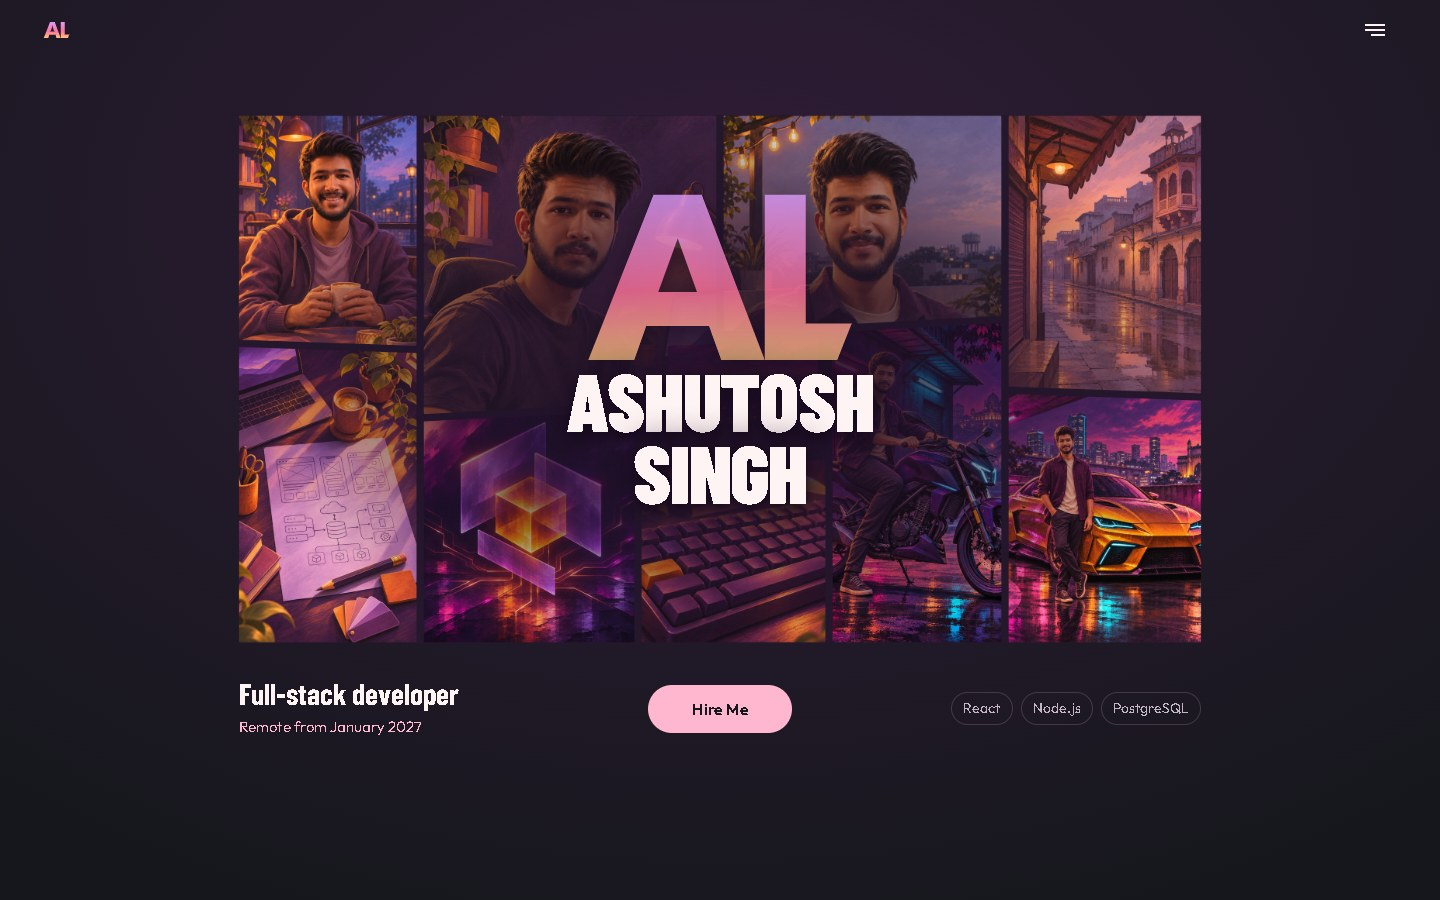
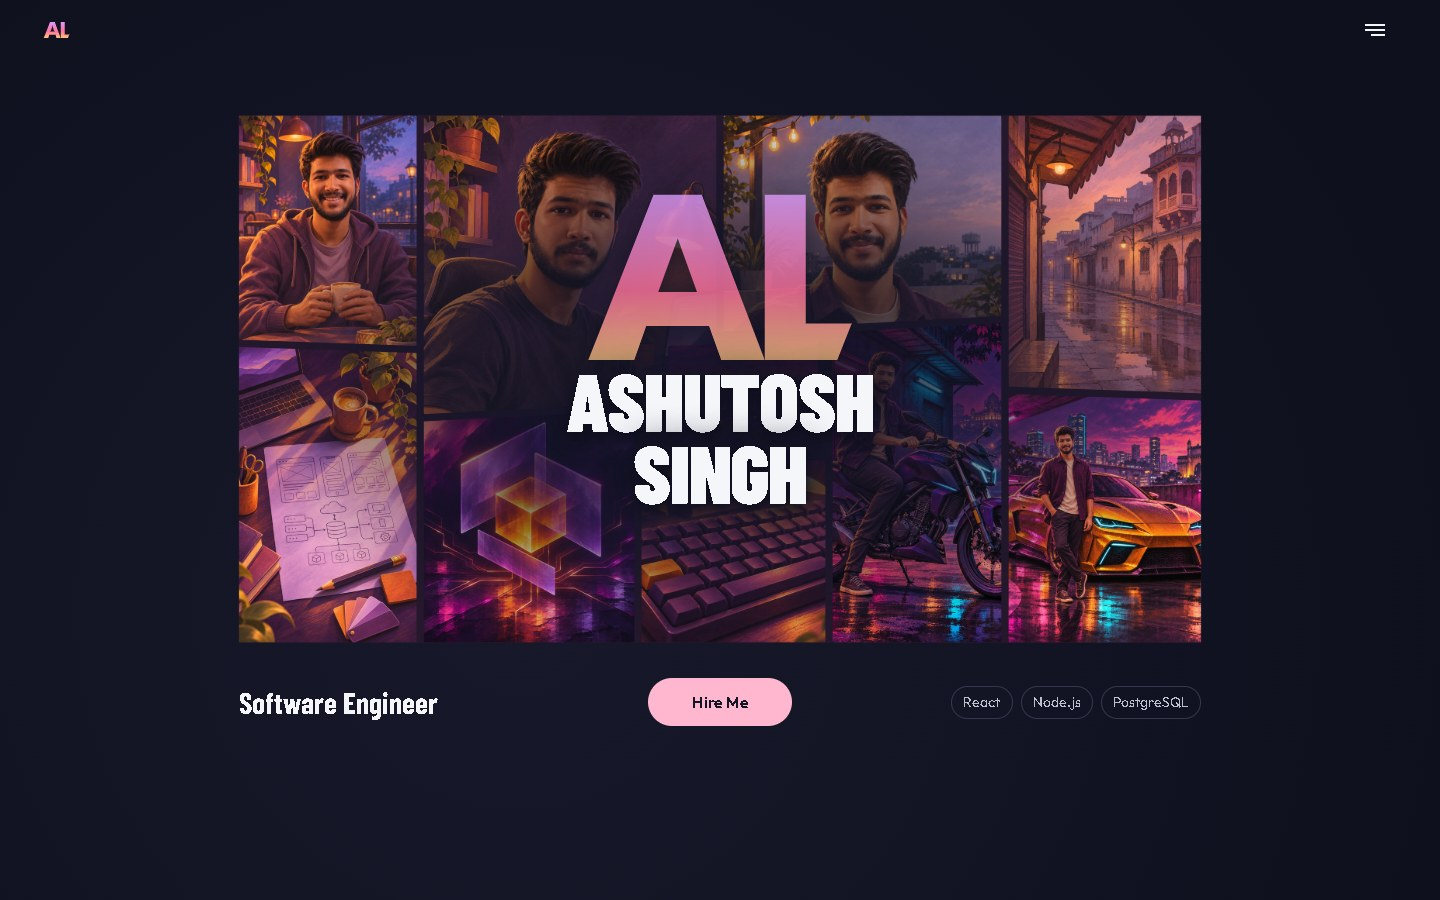
Update portfolio homepage tagline

diff --git a/src/App.jsx b/src/App.jsx
@@ -95,10 +95,7 @@ function Hero({ showIntro }) {
       </div>
 
       <div className="hero-details">
-        <div>
-          <p className="hero-tagline">{hero.tagline}</p>
-          <p className="hero-availability">{hero.availability}</p>
-        </div>
+        <p className="hero-tagline">{hero.tagline}</p>
         <a className="hire-link" href={LINKS.hire}>
           {hero.hire}
         </a>

diff --git a/src/content.js b/src/content.js
@@ -34,8 +34,7 @@ export const navbar = {
 
 export const hero = {
   title: 'Ashutosh Singh',
-  tagline: 'Full-stack developer',
-  availability: 'Remote from January 2027',
+  tagline: 'Software Engineer',
   hire: 'Hire Me',
   stackLabel: 'Tech stack',
   stack: ['React', 'Node.js', 'PostgreSQL'],

diff --git a/src/index.css b/src/index.css
@@ -689,12 +689,6 @@ html:has(.site-menu[open]) {
   font: 700 clamp(1.375rem, 2.1vw, 2rem) / 1.05 var(--font-display);
 }
 
-.hero-availability {
-  margin-top: 0.375rem;
-  color: var(--accent);
-  font-size: 0.9375rem;
-}
-
 .hero-stack {
   display: flex;
   flex-wrap: wrap;

diff --git a/AGENT.md b/AGENT.md
@@ -122,7 +122,7 @@ This file is the only context that carries between prompts and sessions. Keep it
 
 **Contact:** Hire Me and Start a Project lead to the footer. The form submits to FormSubmit's AJAX endpoint and displays its result in place. Book a Call embeds the Cal.com profile and its event calendars in the footer.
 
-**Hero:** The navbar AL mark renders at 1.95rem wide.
+**Hero:** The homepage tagline reads “Software Engineer.” The navbar AL mark renders at 1.95rem wide.
 
 **Next:** Replace the existing public resume when a newer PDF is supplied.
 

diff --git a/README.md b/README.md
@@ -20,7 +20,7 @@ The city scene pulls back from a motorcycle on wet streets to reveal Rajwada Pal
 
 Portrait artwork reframes the opening shot, and project cards can be swiped on smaller screens.
 
-<img src="docs/screenshots/hero-mobile.jpg" alt="Mobile homepage with portrait collage, availability, and Hire Me button" width="320">
+<img src="docs/screenshots/hero-mobile.jpg" alt="Mobile homepage with portrait collage and Hire Me button" width="320">
 
 ## Run Locally
 

diff --git a/CONTENT.md b/CONTENT.md
@@ -9,7 +9,7 @@ Every word on the AshuLabs portfolio, section by section, in page order. Where a
 **Hero**
 - Loader and browser icon: AL monogram
 - Intro and hero artwork: AL monogram, followed by "Ashutosh Singh"
-- Tagline (in the release date's place, two lines): "Full-stack developer" / "Remote from January 2027"
+- Tagline: "Software Engineer"
 - Button: "Hire Me"
 - Tech tags (in the platform logos' place): "React", "Node.js", "PostgreSQL"
 
